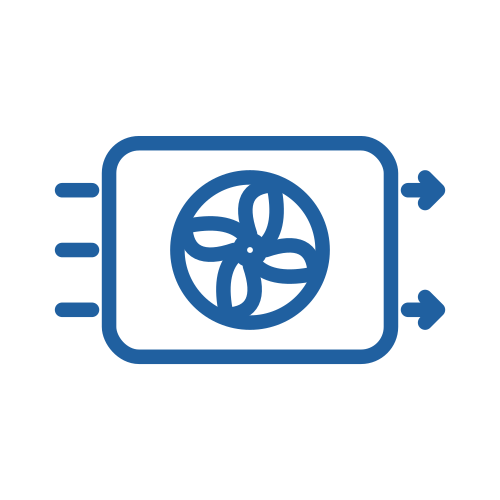
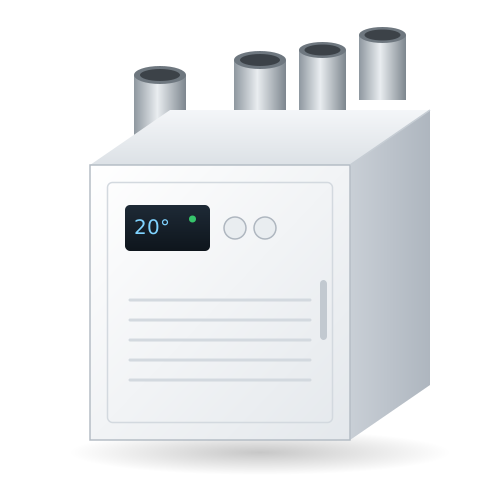
v0.2.0: address Homey App Store review
- MAC-based discovery of USR IOT adapters, probed on port 8234; manual IP as fallback
- Device follows adapter on DHCP address change
- Removed custom setpoint action (duplicate of built-in card)
- New tagline, store readme without list/URL/setup
- Distinct app icon, driver icon from the right, new app and driver images
- Localised pairing view (en/no)

Claude-Session: https://claude.ai/code/session_01SR4cjrTZRjtHMohG84bS7J

diff --git a/drivers/ventilation/driver.js b/drivers/ventilation/driver.js
@@ -3,40 +3,74 @@
 const Homey = require('homey');
 const KardiaClient = require('../../lib/KardiaClient');
 
+const DEFAULT_PORT = 8234;
+const PROBE_TIMEOUT_MS = 8000;
+
 class VentilationDriver extends Homey.Driver {
   async onInit() {
     this.modeChanged = this.homey.flow.getDeviceTriggerCard('ventilation_mode_changed');
   }
 
+  /** Kobler til adresse:port og venter på en gyldig innstillingsramme. */
+  async probe(host, port = DEFAULT_PORT, timeoutMs = PROBE_TIMEOUT_MS) {
+    const client = new KardiaClient({ host, port, log: () => {} });
+    client.on('error', () => {});
+    try {
+      client.connect();
+      return await client.waitForSettings(timeoutMs);
+    } finally {
+      client.close();
+    }
+  }
+
+  /** Adaptere funnet via MAC-oppdagelse (USR IOT) som faktisk svarer med ventilasjonsdata. */
+  async discoverDevices() {
+    const results = Object.values(this.getDiscoveryStrategy().getDiscoveryResults());
+    this.log(`Oppdaget ${results.length} USR-adapter(e)`);
+    const probed = await Promise.all(
+      results.map(async (r) => {
+        try {
+          await this.probe(r.address);
+          return {
+            name: 'Ventilasjon',
+            data: { id: r.id },
+            settings: { host: r.address, port: DEFAULT_PORT, debug: false },
+          };
+        } catch (err) {
+          this.log(`${r.address}: ingen ventilasjonsdata (${err.message})`);
+          return null;
+        }
+      }),
+    );
+    return probed.filter(Boolean);
+  }
+
   async onPair(session) {
-    let found = null;
+    const manual = [];
+
+    session.setHandler('list_devices', async () => {
+      const devices = [...(await this.discoverDevices()), ...manual];
+      if (devices.length === 0) {
+        // Ingen funnet automatisk – la brukeren skrive inn adressen
+        await session.showView('connect');
+      }
+      return devices;
+    });
 
     session.setHandler('test_connection', async ({ host, port }) => {
       host = String(host || '').trim();
-      port = Number(port) || 8234;
-      if (!host) throw new Error('Skriv inn IP-adressen til adapteren');
-
-      const client = new KardiaClient({ host, port, log: (...a) => this.log(...a) });
-      client.on('error', () => {}); // feil håndteres via timeout
-      try {
-        client.connect();
-        const settings = await client.waitForSettings(15000);
-        found = { host, port };
-        return settings; // vises i paringsvinduet
-      } finally {
-        client.close();
-      }
-    });
-
-    session.setHandler('list_devices', async () => {
-      if (!found) return [];
-      return [
-        {
-          name: 'Ventilasjon',
-          data: { id: `kardia-ventilation-${found.host}` },
-          settings: { host: found.host, port: found.port, debug: false },
-        },
-      ];
+      port = Number(port) || DEFAULT_PORT;
+      if (!host) throw new Error(this.homey.__('pair.no_host'));
+      const settings = await this.probe(host, port, 15000).catch(() => {
+        throw new Error(this.homey.__('pair.no_data'));
+      });
+      manual.length = 0;
+      manual.push({
+        name: 'Ventilasjon',
+        data: { id: `manual-${host}:${port}` },
+        settings: { host, port, debug: false },
+      });
+      return settings;
     });
   }
 }

diff --git a/drivers/ventilation/pair/connect.html b/drivers/ventilation/pair/connect.html
@@ -1,30 +1,25 @@
 <style>
-  .kv-form { padding: 8px 0; }
   .kv-row { margin-bottom: 14px; }
-  .kv-row label { display: block; font-weight: 600; margin-bottom: 4px; }
-  .kv-row input { width: 100%; box-sizing: border-box; }
   #kv-status { margin-top: 12px; min-height: 1.4em; }
   .kv-err { color: #c0392b; }
   .kv-ok { color: #27ae60; }
 </style>
 
 <header class="homey-header">
-  <h1 class="homey-title">Koble til ventilasjonsadapteren</h1>
-  <p class="homey-subtitle">
-    Skriv inn IP-adressen til seriell-til-Ethernet-adapteren. Homey kobler seg til og venter på data fra aggregatet.
-  </p>
+  <h1 class="homey-title" data-i18n="pair.title"></h1>
+  <p class="homey-subtitle" data-i18n="pair.subtitle"></p>
 </header>
 
-<div class="kv-form homey-form">
+<div class="homey-form">
   <div class="kv-row homey-form-group">
-    <label class="homey-form-label" for="kv-host">IP-adresse</label>
+    <label class="homey-form-label" for="kv-host" data-i18n="pair.ip"></label>
     <input class="homey-form-input" id="kv-host" type="text" placeholder="192.168.1.50" />
   </div>
   <div class="kv-row homey-form-group">
-    <label class="homey-form-label" for="kv-port">Port</label>
+    <label class="homey-form-label" for="kv-port" data-i18n="pair.port"></label>
     <input class="homey-form-input" id="kv-port" type="number" value="8234" />
   </div>
-  <button class="homey-button-primary-full" id="kv-test">Test og fortsett</button>
+  <button class="homey-button-primary-full" id="kv-test" data-i18n="pair.test"></button>
   <div id="kv-status"></div>
 </div>
 
@@ -36,12 +31,12 @@
     const host = document.getElementById('kv-host').value.trim();
     const port = Number(document.getElementById('kv-port').value) || 8234;
     status.className = '';
-    status.textContent = 'Kobler til og venter på data (opptil 15 s)…';
+    status.textContent = Homey.__('pair.waiting');
     btn.disabled = true;
     try {
       const s = await Homey.emit('test_connection', { host, port });
       status.className = 'kv-ok';
-      status.textContent = `Fant aggregatet – settpunkt ${s.targetTemperature} °C, modus ${s.preset ?? s.presetRaw}.`;
+      status.textContent = `${Homey.__('pair.found')} – ${s.targetTemperature} °C`;
       setTimeout(() => Homey.showView('list_devices'), 800);
     } catch (err) {
       status.className = 'kv-err';

diff --git a/drivers/ventilation/device.js b/drivers/ventilation/device.js
@@ -51,7 +51,7 @@ class VentilationDevice extends Homey.Device {
       // Gi reconnect litt tid før enheten merkes som utilgjengelig
       clearTimeout(this._offlineTimer);
       this._offlineTimer = this.homey.setTimeout(() => {
-        this.setUnavailable('Mistet forbindelsen til ventilasjonsadapteren').catch(this.error);
+        this.setUnavailable(this.homey.__('device.connection_lost')).catch(this.error);
       }, 60000);
     });
 
@@ -95,6 +95,31 @@ class VentilationDevice extends Homey.Device {
     if (changedKeys.includes('host') || changedKeys.includes('port')) {
       this.homey.setTimeout(() => this._connect(), 500);
     }
+  }
+
+  // --- Oppdagelse: følg adapteren hvis den får ny IP fra DHCP ---
+
+  onDiscoveryResult(discoveryResult) {
+    return discoveryResult.id === this.getData().id;
+  }
+
+  async onDiscoveryAvailable(discoveryResult) {
+    await this._useAddress(discoveryResult.address);
+  }
+
+  onDiscoveryAddressChanged(discoveryResult) {
+    this._useAddress(discoveryResult.address).catch(this.error);
+  }
+
+  onDiscoveryLastSeenChanged() {
+    if (this.client && !this.client.connected) this._connect();
+  }
+
+  async _useAddress(address) {
+    if (!address || address === this.getSetting('host')) return;
+    this.log(`Adapteren har fått ny adresse: ${address}`);
+    await this.setSettings({ host: address });
+    this._connect();
   }
 
   async onUninit() {

diff --git a/app.js b/app.js
@@ -9,11 +9,6 @@ class KardiaVentilationApp extends Homey.App {
       await device.triggerCapabilityListener('ventilation_mode', mode);
     });
 
-    const setTemp = this.homey.flow.getActionCard('set_supply_setpoint');
-    setTemp.registerRunListener(async ({ device, temperature }) => {
-      await device.triggerCapabilityListener('target_temperature', temperature);
-    });
-
     const modeIs = this.homey.flow.getConditionCard('ventilation_mode_is');
     modeIs.registerRunListener(async ({ device, mode }) => device.getCapabilityValue('ventilation_mode') === mode);
 

diff --git a/README.md b/README.md
@@ -12,7 +12,7 @@ Kardia used an RS-485-to-Ethernet adapter (e.g. **USR-TCP232-304**) wired to the
 
 - Control: mode (Away / Home / Boost) and temperature setpoint
 - Sensors: indoor / outdoor / supply / exhaust temperature, indoor and outdoor humidity, CO₂, PM2.5 and PM10 (indoor and outdoor)
-- Flow cards: *Set ventilation mode*, *Set temperature setpoint*, *Ventilation mode is …*, *Ventilation mode changed*
+- Flow cards: *Set ventilation mode*, *Ventilation mode is …*, *Ventilation mode changed* (setpoint uses Homey's built-in *Set temperature* card)
 - Automatic reconnect, watchdog, optional raw-frame logging
 
 Sensors your unit does not have will simply stay empty.
@@ -29,7 +29,7 @@ homey login
 homey app install
 ```
 
-Then in Homey: **+ → New device**, scroll the list of *installed* apps (don't search – search only covers the App Store) → **Kardia Ventilation → Ventilation unit**, enter the adapter's IP and port `8234`. Pairing waits for a valid frame before adding the device.
+Then in Homey: **+ → New device → Kardia Ventilation → Ventilation unit**. USR IOT adapters (MAC prefixes D8:B0:4C, 9C:A5:25, D4:AD:20, 38:F4:06, F4:70:0C) are discovered automatically and probed on port 8234; if none is found you can enter the IP address manually. The device follows the adapter if its DHCP address changes.
 
 Requires Homey Pro firmware **12.2 or newer**.
 
